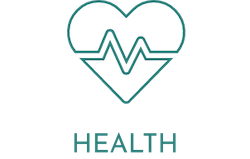
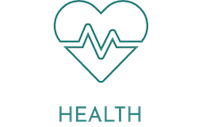
Added client text and adjusted formatting to about section and photo

diff --git a/index.html b/index.html
@@ -55,8 +55,7 @@
     <main>
       <div id="intro">
         <h3>
-          Feel respected, feel seen and live in alignment with your truest,
-          unique self.
+          “You didn't choose PCOS but you get to decide how to live your life."
         </h3>
         <div class="button">
           <a href="mailto:cegwellness@gmail.com" class="email-link">Connect!</a>
@@ -66,28 +65,33 @@
         <h1>ABOUT</h1>
         <div class="about-text">
           <p>
-            Lorem ipsum dolor sit amet consectetur adipisicing elit. Natus,
-            suscipit nulla. Inventore quae perspiciatis similique quos magni
-            est, deserunt numquam, debitis atque corrupti illo amet quo in
-            asperiores explicabo quisquam.
+            Welcome! My name is Carrie Gonzales, I’m an Author and Registered
+            Dietitian and founder of CEG Wellness. I have over 15 years of
+            clinical nutrition experience and more recently adding Integrative
+            Nutrition Health Coach to my name. Like many women’s journey with
+            PCOS, I was diagnosed in my early twenties and provided no education
+            other than being handed a prescription for birth control and to come
+            back to the doctor when I was ready to have kids.
           </p>
           <p>
-            Lorem ipsum dolor, sit amet consectetur adipisicing elit. Inventore,
-            illum temporibus laborum molestiae possimus rem officia harum,
-            asperiores ipsa laudantium esse tempore voluptatem voluptatum a eos
-            et suscipit sint illo, animi quia?
+            I am one of the 1 in 10 women with PCOS who has spent the last 15
+            years wading through confusing PCOS related symptoms of, anxiety,
+            depression, abnormal hormone levels, unexpected weight gain, body
+            image and self-esteem loss. I have known what it is like to be your
+            own personal guinea pig, experimenting with every diet under the
+            sun. I’ve battled imposter syndrome, given my extensive nutrition
+            background and not being able to “just figure things out”
           </p>
           <p>
-            Quaerat, explicabo praesentium et error adipisci, laudantium
-            dignissimos quod saepe ratione ipsum ullam totam molestias corrupti
-            ex, rerum earum sed.Blanditiis minima suscipit possimus, porro rem
-            esse adipisci illo odio aliquid voluptas cumque, laboriosam harum
-            mollitia, ducimus nostrum!
-          </p>
-          <p>
-            Lorem ipsum dolor sit amet consectetur adipisicing elit. Tempore
-            molestiae placeat nulla labore sit voluptate laborum, ea est, totam
-            reiciendis incidunt quasi recusandae vitae ullam.
+            Tired and frustrated to have all this nutrition knowledge but ending
+            up in the same vicious PCOS cycle, I decided to challenge what I
+            knew. I decided to question beyond what I was putting on my plate. I
+            advanced my studies and now a certified health coach. Through a
+            holistic approach I have managed to regulate my periods without
+            prescription medication, improve my mood, battle cravings, and
+            improve self-esteem and physique. Yes, healthy living with PCOS
+            includes a solid nutritional foundation, but not without balancing
+            out the other areas in your life.
           </p>
         </div>
         <div class="photo">
@@ -110,21 +114,40 @@
       <div id="info">
         <h4>What is PCOS?</h4>
         <p>
-          Lorem ipsum, dolor sit amet consectetur adipisicing elit. Deleniti
-          deserunt magnam dicta totam in minima?
+          Polycystic Ovary Syndrome (PCOS) is a hormonal disorder that affects
+          10-15% of women. PCOS can lead to complications including,
+          infertility, obesity, hair and skin issues, anxiety, depression,
+          endometrial cancer, type 2 diabetes as well as a host of other
+          conditions. At this time, there is no cure for PCOS and working with a
+          collaborative trusted team for PCOS management is ideal to help manage
+          complications of this disorder.
+        </p>
+        <h4>Why You Should Work With Me:</h4>
+        <p>
+          I provide a unique approach of both nutrition education and health
+          coaching to optimize your individualized PCOS life. In addition,
+          having PCOS myself, I can relate to the frustrations and confusion of
+          this disorder. I am also aware in working with women with PCOS, no two
+          women are the same and work collaboratively with you to identify your
+          best PCOS life.
         </p>
         <p>
-          Lorem ipsum dolor sit, amet consectetur adipisicing elit. Sapiente ab
-          vel quibusdam dignissimos possimus pariatur.
+          I offer a supportive, judgement free environment, in where I hope you
+          find me as a coach, sister and a friend and not “another white coat”
+          with fancy titles next to my name. You are the authority of your life
+          and I am here to help you remember where you left off.
         </p>
-        <h4>How I can help:</h4>
+        <h4>What To Expect In Working With Me:</h4>
         <p>
-          Lorem ipsum dolor sit amet consectetur, adipisicing elit. Illo
-          recusandae, tenetur quas dolore vitae ut.
-        </p>
-        <p>
-          Lorem ipsum dolor sit amet consectetur adipisicing elit. Blanditiis,
-          molestiae voluptatibus. Sunt fugit quis id?
+          If you are looking for someone to hand you a meal plan or life plan or
+          spend time on Instagram with gimmicky videos with a “one-size fits all
+          approach” I’m probably not your gal. If you are tired and exhausted
+          with experimenting on yourself and desiring a better quality of life
+          and you’re willing to do the work together, then I’m your person. I
+          offer both individualized and group coaching. I want to know who you
+          are beyond PCOS. I want to know what goes on your plate outside of
+          food. We will address your sleep, stressors, hopes, dreams and yes
+          there will be plenty of nutrition support too.
         </p>
       </div>
       <div id="connect">

diff --git a/css/style.css b/css/style.css
@@ -362,6 +362,9 @@ footer p {
   .about-text {
     margin-bottom: -15%;
   }
+  .photo {
+    clear: both;
+  }
 
   #services {
     margin-top: 30px;
@@ -382,6 +385,21 @@ footer p {
     padding: 30px;
   }
 }
+
+/* Adjust formatting of photo overlay with about text box */
+@media screen and (min-width: 900px) {
+  .about-text {
+    width: 75%;
+    /* padding-left: 10em; */
+  }
+
+  .about-text p {
+    padding-left: 3rem;
+  }
+
+  .photo {
+  }
+}
 /* DESKTOP ****************************************************/
 @media screen and (min-width: 1060px) {
   #services {
@@ -395,7 +413,7 @@ footer p {
 
   .icons-large {
     display: flex;
-    justify-content: center;
+    justify-content: space-evenly;
     margin-top: 3rem;
   }
   .icons-large img {
